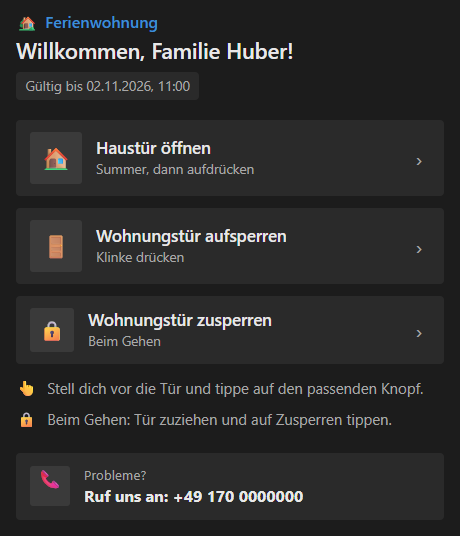
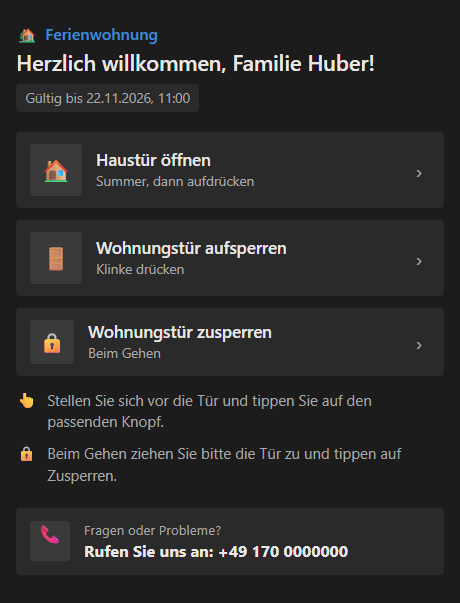
Guest Opener 1.3.4: Gäste herzlich siezen und Screenshots aktualisieren.

diff --git a/guest_opener/src/i18n.ts b/guest_opener/src/i18n.ts
@@ -11,19 +11,19 @@ export function pickLang(acceptLanguage: string | undefined, override: string | 
 
 const de = {
   locale: "de-DE",
-  welcome: (name: string) => `Willkommen, ${name}!`,
-  enterPin: "Bitte gib deinen 6-stelligen PIN ein.",
+  welcome: (name: string) => `Herzlich willkommen, ${name}!`,
+  enterPin: "Bitte geben Sie Ihren 6-stelligen PIN ein.",
   pinLabel: "PIN",
   submit: "Weiter",
-  wrongPin: (left: number) => `Falscher PIN. Noch ${left} Versuch(e).`,
-  locked: (until: string) => `Zu viele Fehlversuche. Bitte versuche es ab ${until} erneut.`,
-  invalidLink: "Dieser Link ist ungültig.",
+  wrongPin: (left: number) => `Der PIN stimmt leider nicht. Sie haben noch ${left} Versuch(e).`,
+  locked: (until: string) => `Zu viele Fehlversuche. Bitte versuchen Sie es ab ${until} noch einmal.`,
+  invalidLink: "Dieser Link ist leider ungültig.",
   revoked: "Dieser Zugang wurde deaktiviert.",
-  upcoming: (from: string) => `Dein Zugang ist ab ${from} aktiv.`,
-  expired: "Dein Aufenthalt ist beendet. Wir hoffen, es hat dir gefallen!",
+  upcoming: (from: string) => `Ihr Zugang ist ab ${from} aktiv. Wir freuen uns auf Sie!`,
+  expired: "Ihr Aufenthalt ist beendet. Vielen Dank für Ihren Besuch – wir hoffen, es hat Ihnen bei uns gefallen!",
   validUntil: (until: string) => `Gültig bis ${until}`,
   validForever: "Unbegrenzt gültig",
-  pinHint: "Den PIN findest du in unserer Nachricht.",
+  pinHint: "Den PIN finden Sie in unserer Nachricht an Sie.",
   open: (name: string) => `${name} öffnen`,
   openBuzzerSub: "Summer, dann aufdrücken",
   openLatchSub: "Falle ziehen",
@@ -34,24 +34,24 @@ const de = {
   locking: "Tür wird zugesperrt …",
   unlocking: "Tür wird aufgesperrt …",
   lockedDoor: (name: string) => `${name} ist zugesperrt.`,
-  stepDoor: "Stell dich vor die Tür und tippe auf den passenden Knopf.",
-  stepLocation: "Wenn dein Handy nach dem Standort fragt: bitte erlauben.",
-  stepLeave: "Beim Gehen: Tür zuziehen und auf Zusperren tippen.",
+  stepDoor: "Stellen Sie sich vor die Tür und tippen Sie auf den passenden Knopf.",
+  stepLocation: "Wenn Ihr Handy nach dem Standort fragt, erlauben Sie ihn bitte.",
+  stepLeave: "Beim Gehen ziehen Sie bitte die Tür zu und tippen auf Zusperren.",
   locating: "Standort wird geprüft …",
   opening: "Tür wird geöffnet …",
   openedBuzzer: (name: string) => `Summer ausgelöst – bitte jetzt ${name} aufdrücken.`,
   openedLatch: (name: string) => `${name} ist offen.`,
   unlocked: (name: string) => `${name} ist aufgesperrt – einfach die Klinke drücken.`,
   geoDenied:
-    "Ohne Standort können wir die Tür nicht öffnen. Bitte erlaube den Standortzugriff in den Browser-Einstellungen und lade die Seite neu.",
-  geoUnavailable: "Standort konnte nicht ermittelt werden. Bitte kurz ins Freie gehen und erneut versuchen.",
-  tooFar: "Du scheinst nicht vor Ort zu sein. Die Tür lässt sich nur direkt am Haus öffnen.",
-  inaccurate: "Dein Standort ist zu ungenau. Bitte kurz ins Freie gehen und erneut versuchen.",
-  doorError: "Die Tür hat nicht reagiert. Bitte in ein paar Sekunden erneut versuchen.",
-  sessionExpired: "Bitte lade die Seite neu und gib deinen PIN erneut ein.",
-  network: "Keine Internetverbindung. Bitte mobile Daten prüfen und erneut versuchen.",
-  help: "Probleme?",
-  callUs: "Ruf uns an",
+    "Ohne Ihren Standort können wir die Tür leider nicht öffnen. Bitte erlauben Sie den Standortzugriff in den Browser-Einstellungen und laden Sie die Seite neu.",
+  geoUnavailable: "Ihr Standort konnte nicht ermittelt werden. Bitte gehen Sie kurz ins Freie und versuchen Sie es noch einmal.",
+  tooFar: "Sie scheinen nicht vor Ort zu sein. Die Tür lässt sich nur direkt am Haus öffnen.",
+  inaccurate: "Ihr Standort ist zu ungenau. Bitte gehen Sie kurz ins Freie und versuchen Sie es noch einmal.",
+  doorError: "Die Tür hat leider nicht reagiert. Bitte versuchen Sie es in ein paar Sekunden noch einmal.",
+  sessionExpired: "Bitte laden Sie die Seite neu und geben Sie Ihren PIN noch einmal ein.",
+  network: "Keine Internetverbindung. Bitte prüfen Sie Ihre mobilen Daten und versuchen Sie es noch einmal.",
+  help: "Fragen oder Probleme?",
+  callUs: "Rufen Sie uns an",
 };
 
 const en: typeof de = {

diff --git a/guest_opener/src/views.ts b/guest_opener/src/views.ts
@@ -173,17 +173,17 @@ function guestInstructions(cfg: Config, lang: Lang): string {
       if (doorBuzzes(cfg, door)) return `${name}: tap “Open ${name}”, then push the door.`;
       return `${name}: tap “Open ${name}”.`;
     }
-    if (actions.includes("unlock")) return `${name}: auf „${name} aufsperren“ tippen und die Klinke drücken. Beim Gehen auf „${name} zusperren“ tippen.`;
-    if (actions.includes("lock")) return `${name}: auf „${name} öffnen“ tippen. Beim Gehen zuziehen und auf „${name} zusperren“ tippen.`;
-    if (doorBuzzes(cfg, door)) return `${name}: auf „${name} öffnen“ tippen und die Tür aufdrücken.`;
-    return `${name}: auf „${name} öffnen“ tippen.`;
+    if (actions.includes("unlock")) return `${name}: Tippen Sie auf „${name} aufsperren“ und drücken Sie die Klinke. Beim Gehen tippen Sie auf „${name} zusperren“.`;
+    if (actions.includes("lock")) return `${name}: Tippen Sie auf „${name} öffnen“. Beim Gehen ziehen Sie die Tür zu und tippen auf „${name} zusperren“.`;
+    if (doorBuzzes(cfg, door)) return `${name}: Tippen Sie auf „${name} öffnen“ und drücken Sie die Tür auf.`;
+    return `${name}: Tippen Sie auf „${name} öffnen“.`;
   });
-  const intro = lang === "en" ? "Open the link and enter the PIN." : "Öffne den Link und gib den PIN ein.";
+  const intro = lang === "en" ? "Open the link and enter the PIN." : "Öffnen Sie einfach den Link und geben Sie den PIN ein.";
   const geo =
     cfg.geofenceRadiusM > 0
       ? lang === "en"
         ? " Please allow location access when your phone asks."
-        : " Bitte erlaube den Standortzugriff, wenn dein Handy fragt."
+        : " Bitte erlauben Sie den Standortzugriff, wenn Ihr Handy danach fragt."
       : "";
   return `${intro} ${lines.join(" ")}${geo}`;
 }
@@ -203,6 +203,7 @@ export function guestMessageText(cfg: Config, stay: Stay, link: string, lang: La
       stay.role === "admin" ? `This access does not expire.` : `Valid from ${fmt(stay.valid_from)} until ${fmt(stay.valid_until)}.`,
       guestInstructions(cfg, "en"),
       ...(phone ? [``, `If anything goes wrong: ${phone}`] : []),
+      ...(stay.role === "guest" ? [``, `We hope you enjoy your stay!`] : []),
     ].join("\n");
   }
   const fmt = (ts: number) => formatDateTime(ts, tz, "de-DE");
@@ -210,13 +211,15 @@ export function guestMessageText(cfg: Config, stay: Stay, link: string, lang: La
     `Hallo ${stay.guest_name},`,
     ``,
     // No article ("die Ferienwohnung", but "das Haus Alpenblick"): the quoted name stands on its own.
-    `hier ist dein digitaler Schlüssel für „${cfg.propertyName}“:`,
+    `hier ist Ihr digitaler Schlüssel für „${cfg.propertyName}“:`,
     link,
     `PIN: ${stay.pin}`,
     ``,
     stay.role === "admin" ? `Der Zugang ist unbegrenzt gültig.` : `Gültig von ${fmt(stay.valid_from)} bis ${fmt(stay.valid_until)}.`,
     guestInstructions(cfg, "de"),
-    ...(phone ? [``, `Bei Problemen: ${phone}`] : []),
+    ...(phone ? [``, `Bei Fragen oder Problemen erreichen Sie uns unter ${phone}.`] : []),
+    // Admin users (e.g. cleaning) get the key without the holiday greeting.
+    ...(stay.role === "guest" ? [``, `Wir wünschen Ihnen einen schönen Aufenthalt!`] : []),
   ].join("\n");
 }
 

diff --git a/guest_opener/test/guest.test.ts b/guest_opener/test/guest.test.ts
@@ -1,6 +1,7 @@
 import assert from "node:assert/strict";
 import { test } from "node:test";
 import { HomeAssistant } from "../src/homeassistant";
+import { texts } from "../src/i18n";
 import type { Stay } from "../src/store";
 import { guestMessageText } from "../src/views";
 import { HOME, setup, testConfig } from "./helpers";
@@ -135,6 +136,31 @@ test("the guest message names the property without an article", () => {
   const cfg = testConfig({ propertyName: "Haus Alpenblick" });
   const stay = { token: "t", role: "guest", guest_name: "Erika", pin: "123456", valid_from: 0, valid_until: 1 } as Stay;
   assert.match(guestMessageText(cfg, stay, "https://x/g/t"), /Schlüssel für „Haus Alpenblick“:/);
+});
+
+// Guests are addressed formally ("Sie"); the admin pages are for the hosts and may use "du".
+const INFORMAL = /\b(du|dich|dir|dein\w*|gib|tippe|lade|erlaube|versuche|ruf)\b/i;
+
+test("German guest texts address the guest as Sie", async () => {
+  for (const [key, value] of Object.entries(texts.de)) {
+    const text = typeof value === "function" ? (value as (arg: string) => string)("X") : value;
+    assert.doesNotMatch(text, INFORMAL, key);
+  }
+  const cfg = testConfig({ hostPhone: "+49 170 0000000" });
+  const stay = { token: "t", role: "guest", guest_name: "Erika", pin: "123456", valid_from: 0, valid_until: 1 } as Stay;
+  const message = guestMessageText(cfg, stay, "https://x/g/t");
+  assert.doesNotMatch(message, INFORMAL);
+  assert.match(message, /hier ist Ihr digitaler Schlüssel/);
+  assert.match(message, /Wir wünschen Ihnen einen schönen Aufenthalt!/);
+  assert.doesNotMatch(guestMessageText(cfg, { ...stay, role: "admin" }, "https://x/g/t"), /schönen Aufenthalt/);
+
+  const s = setup();
+  const guest = s.addStay();
+  const pinPage = await (await s.request(`/g/${guest.token}`, { headers: { "accept-language": "de" } })).text();
+  assert.match(pinPage, /Bitte geben Sie Ihren 6-stelligen PIN ein/);
+  await s.loginGuest(guest);
+  const doorsPage = await (await s.request(`/g/${guest.token}`, { headers: { "accept-language": "de" } })).text();
+  assert.doesNotMatch(doorsPage.replace(/<[^>]+>/g, " "), INFORMAL);
 });
 
 test("a new PIN invalidates existing sessions", async () => {

diff --git a/CLAUDE.md b/CLAUDE.md
@@ -56,6 +56,9 @@ nur über die Version in `config.yaml`.
 
 - Code-Kommentare und Fehlermeldungen in `buildConfig` auf Englisch; Oberfläche, Benachrichtigungen,
   Dokumentation, Changelog und Commit-Texte auf Deutsch.
+- Ansprache: Gäste werden gesiezt, gastfreundlich und herzlich („Herzlich willkommen“, „Wir freuen uns auf Sie!“).
+  Gilt für die Gästeseite (`i18n.ts`) und die Gästenachricht (`guestMessageText` in `views.ts`); ein Test in
+  `test/guest.test.ts` prüft auf Du-Formen. Die Verwaltung richtet sich an die Gastgeber und duzt.
 - Commit-Texte: ein Satz im Imperativ, z. B. „Jede Tür einzeln ausblendbar machen, mit Name und Betriebsart.“
 - Keine echten Daten ins Repository: Name der Unterkunft, Koordinaten, Telefonnummer, öffentliche Adresse und
   Entitäts-IDs gehören nur in die Add-on-Konfiguration bzw. `.env`. Beispiele bleiben Platzhalter.

diff --git a/README.en.md b/README.en.md
@@ -9,11 +9,11 @@ door from their phone. After checkout the access stops working.
 The doors are any Home Assistant entities. The property name, coordinates, phone number and public
 address live only in the add-on configuration, not in this repository.
 
-<img src="docs/screenshots/gaesteseite.png" alt="Guest page with buttons for the front door, the apartment door and locking" width="420">
+<img src="docs/screenshots/gaesteseite.en.png" alt="Guest page with buttons for the front door, the apartment door and locking" width="420">
 
 <img src="docs/screenshots/verwaltung.png" alt="Admin page with devices, a new stay and the guest list" width="800">
 
-The pictures show sample data from a local test setup.
+The pictures show sample data from a local test setup. The admin page is available in German only.
 
 ## Features
 

diff --git a/guest_opener/CHANGELOG.md b/guest_opener/CHANGELOG.md
@@ -1,5 +1,13 @@
 # Changelog
 
+## 1.3.4
+
+- Gäste werden auf Deutsch gesiezt, auf der Gästeseite und in der kopierten Nachricht. Der Ton ist
+  herzlicher, z. B. „Herzlich willkommen“ und „Wir freuen uns auf Sie!“.
+- Die Nachricht an Gäste endet mit einem Gruß zum Aufenthalt (Deutsch und Englisch). Admin-Nutzer
+  wie die Reinigung bekommen ihn nicht.
+- Die Verwaltung spricht weiterhin die Gastgeber an und bleibt beim Du.
+
 ## 1.3.3
 
 - Türen lassen sich nur noch mit einer JSON-Anfrage auslösen. Ein gewöhnliches HTML-Formular kann
